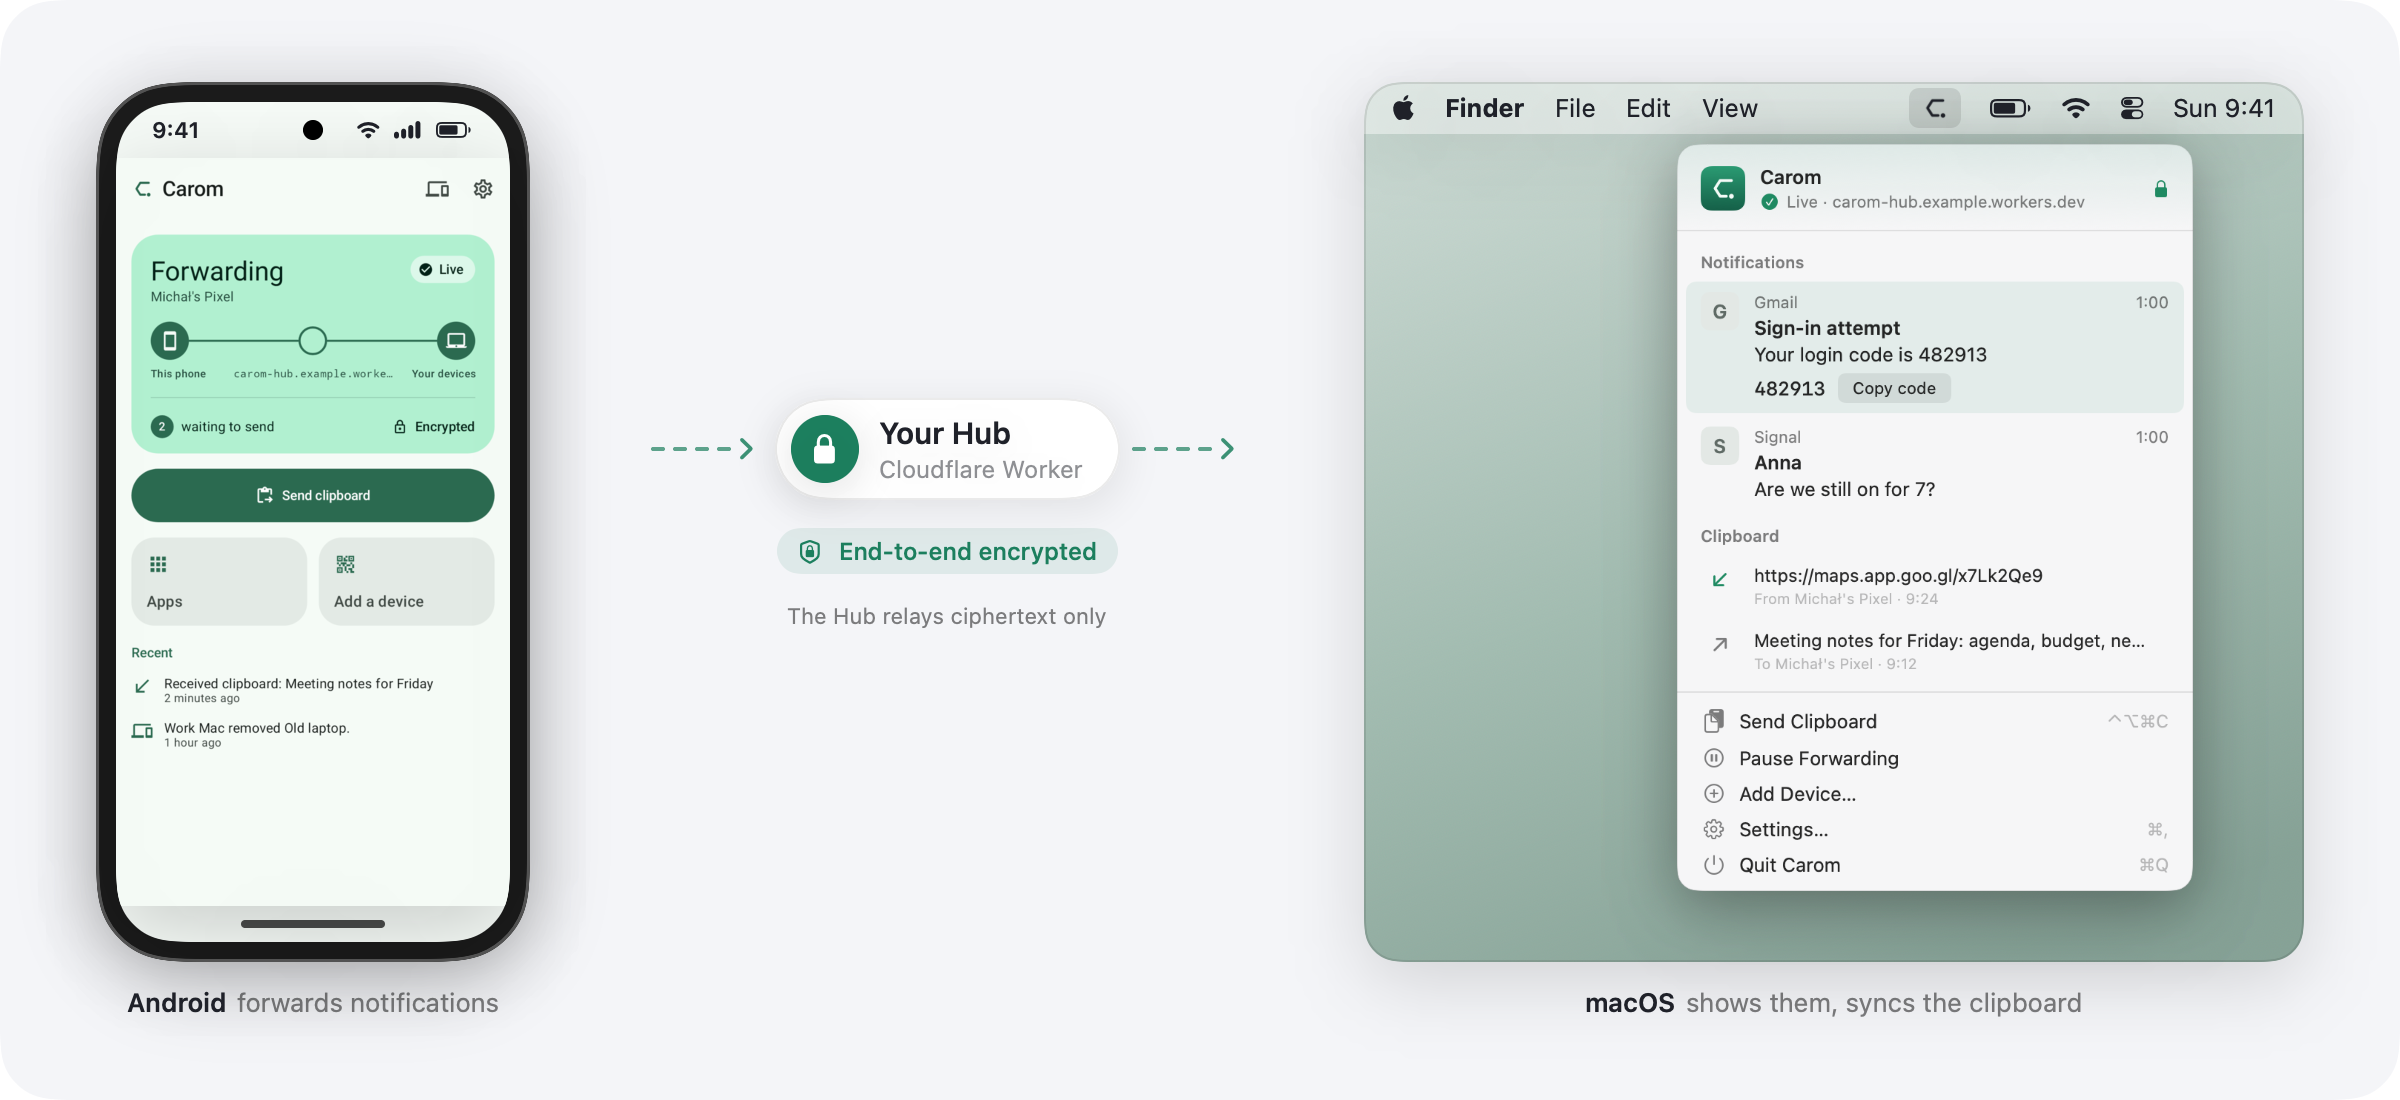
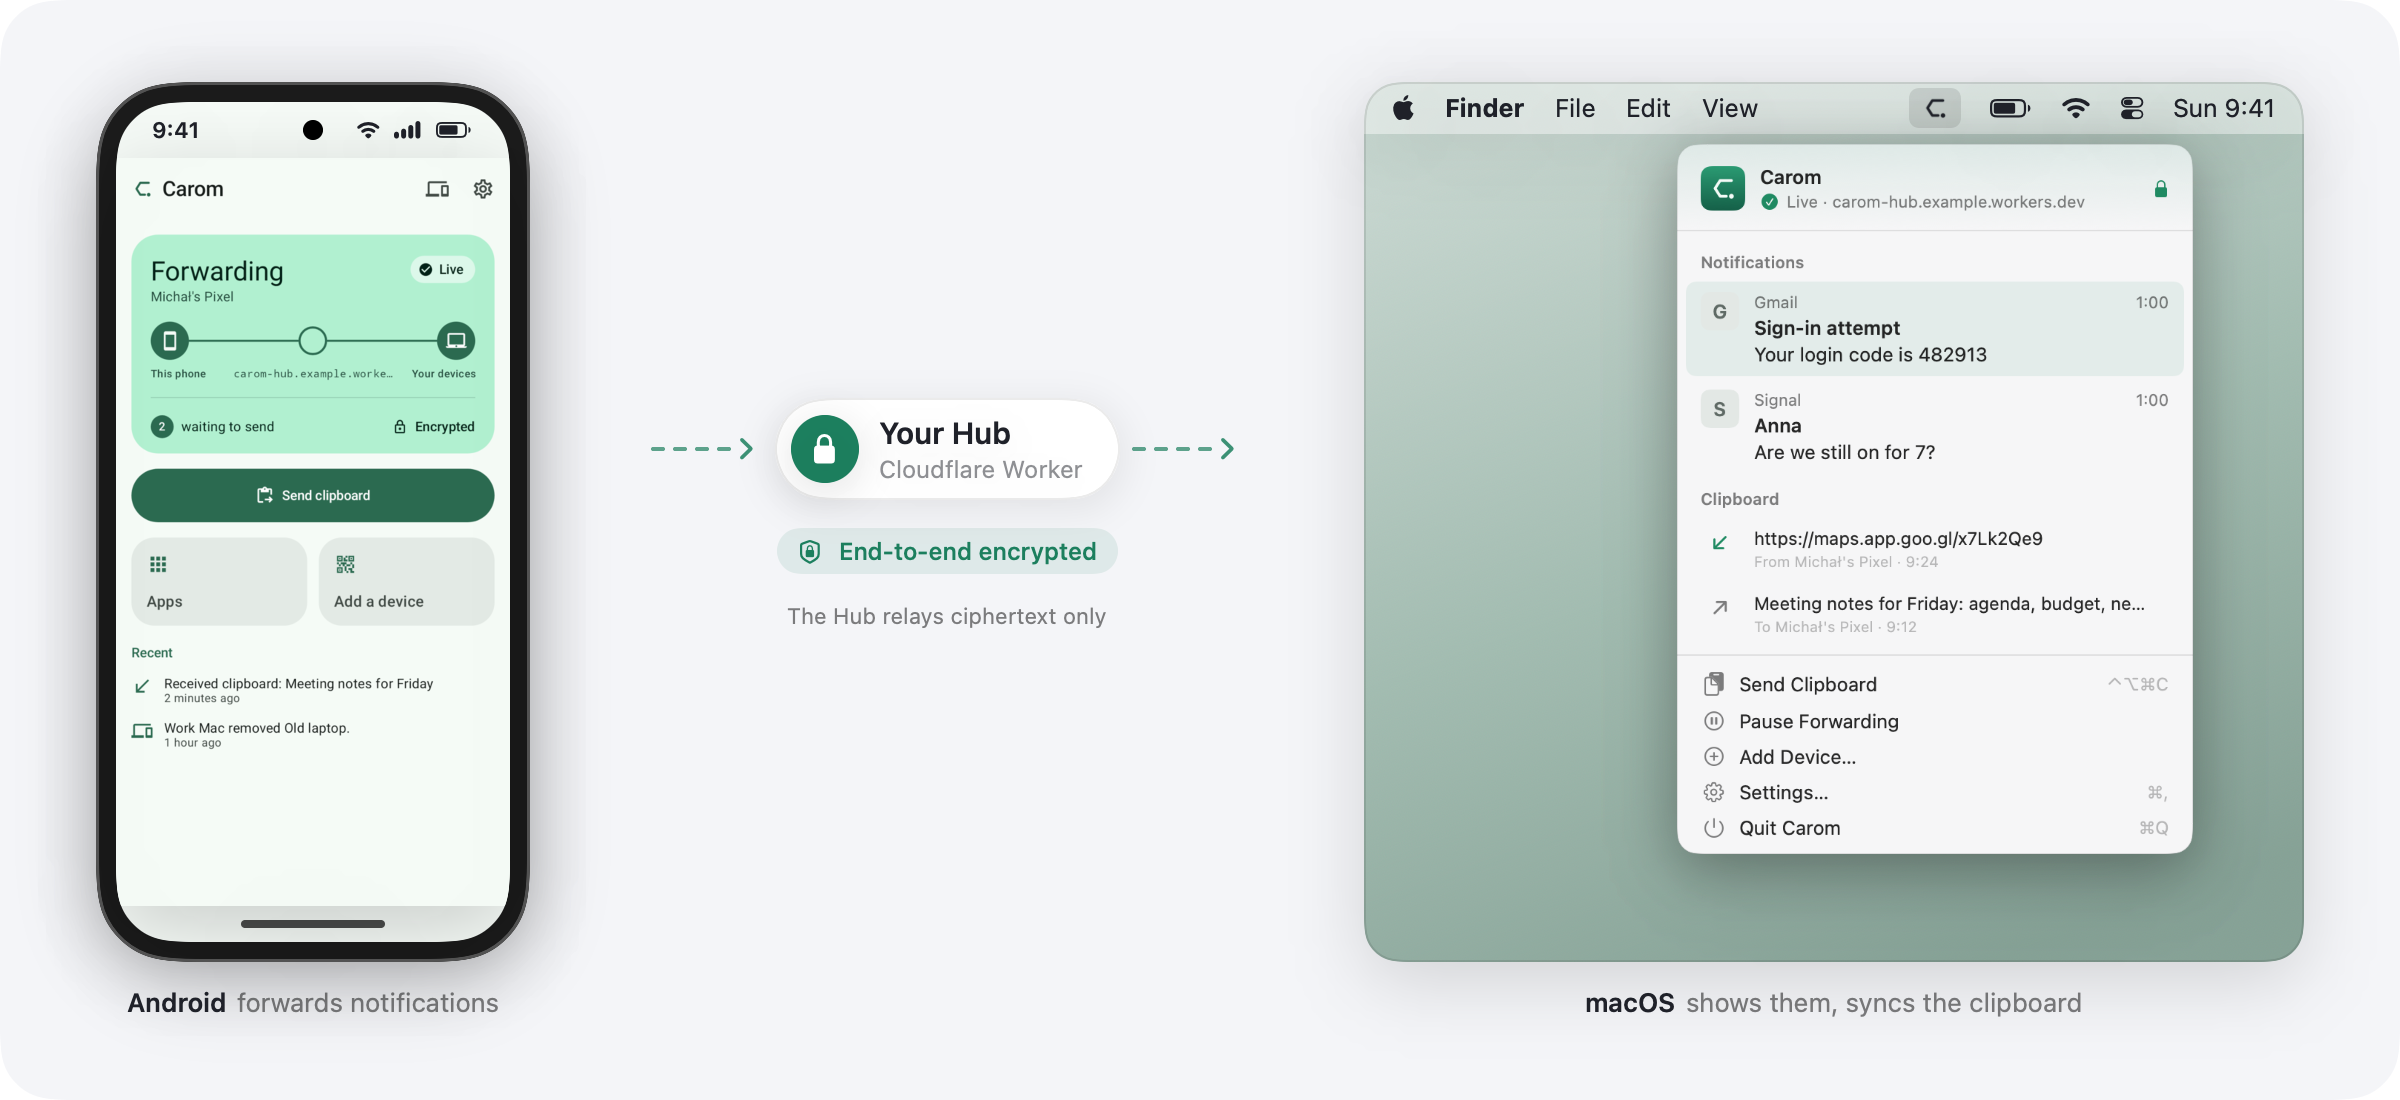
macOS: distinct attention glyph for stopped, status accessibility label, hover-only OTP code

Changed region(s): [[0.6875, 0.34, 0.9375, 0.8345]]

diff --git a/macos/App/Sources/App/CaromApp.swift b/macos/App/Sources/App/CaromApp.swift
@@ -84,7 +84,7 @@ struct MenuBarLabel: View {
     @Environment(\.openSettings) private var openSettings
 
     var body: some View {
-        Image(glyph)
+        icon
             .onChange(of: model.windowRequest) { _, request in
                 guard let request else { return }
                 if request.window == .settings {
@@ -94,7 +94,27 @@ struct MenuBarLabel: View {
                 }
                 AppEnvironment.activate()
             }
-            .accessibilityLabel("Carom")
+            .accessibilityLabel("Carom, \(stateDescription)")
+    }
+
+    @ViewBuilder private var icon: some View {
+        if needsAttention {
+            Image(systemName: "exclamationmark.triangle")
+        } else {
+            Image(glyph)
+        }
+    }
+
+    /// Hub rejected the token (401): the user must re-pair.
+    private var needsAttention: Bool { model.phase == .ready && model.connection == .stopped }
+
+    private var stateDescription: String {
+        if needsAttention { return "Needs attention" }
+        return switch glyph {
+        case "MenuBarPaused": "Paused"
+        case "MenuBarOffline": "Offline"
+        default: "Connected"
+        }
     }
 
     /// Template glyph asset: the mark with a solid ball (live), pause bars (paused) or a hollow ball (offline).
@@ -102,7 +122,7 @@ struct MenuBarLabel: View {
         guard model.phase == .ready else { return "MenuBarOffline" }
         if model.preferences.paused { return "MenuBarPaused" }
         switch model.connection {
-        case .stopped, .noNetwork, .offline: return "MenuBarOffline"
+        case .noNetwork, .offline: return "MenuBarOffline"
         default: break
         }
         if model.banners.contains(where: { $0.kind == .hubUnreachable }) { return "MenuBarOffline" }

diff --git a/macos/App/Sources/Views/MenuBarView.swift b/macos/App/Sources/Views/MenuBarView.swift
@@ -310,7 +310,7 @@ private struct NotificationRow: View {
                         .font(.system(size: 13))
                         .lineLimit(2)
                 }
-                if let code = item.code {
+                if let code = item.code, hovering {
                     HStack(spacing: 8) {
                         Text(code)
                             .font(.system(size: 13, design: .monospaced).weight(.medium))
